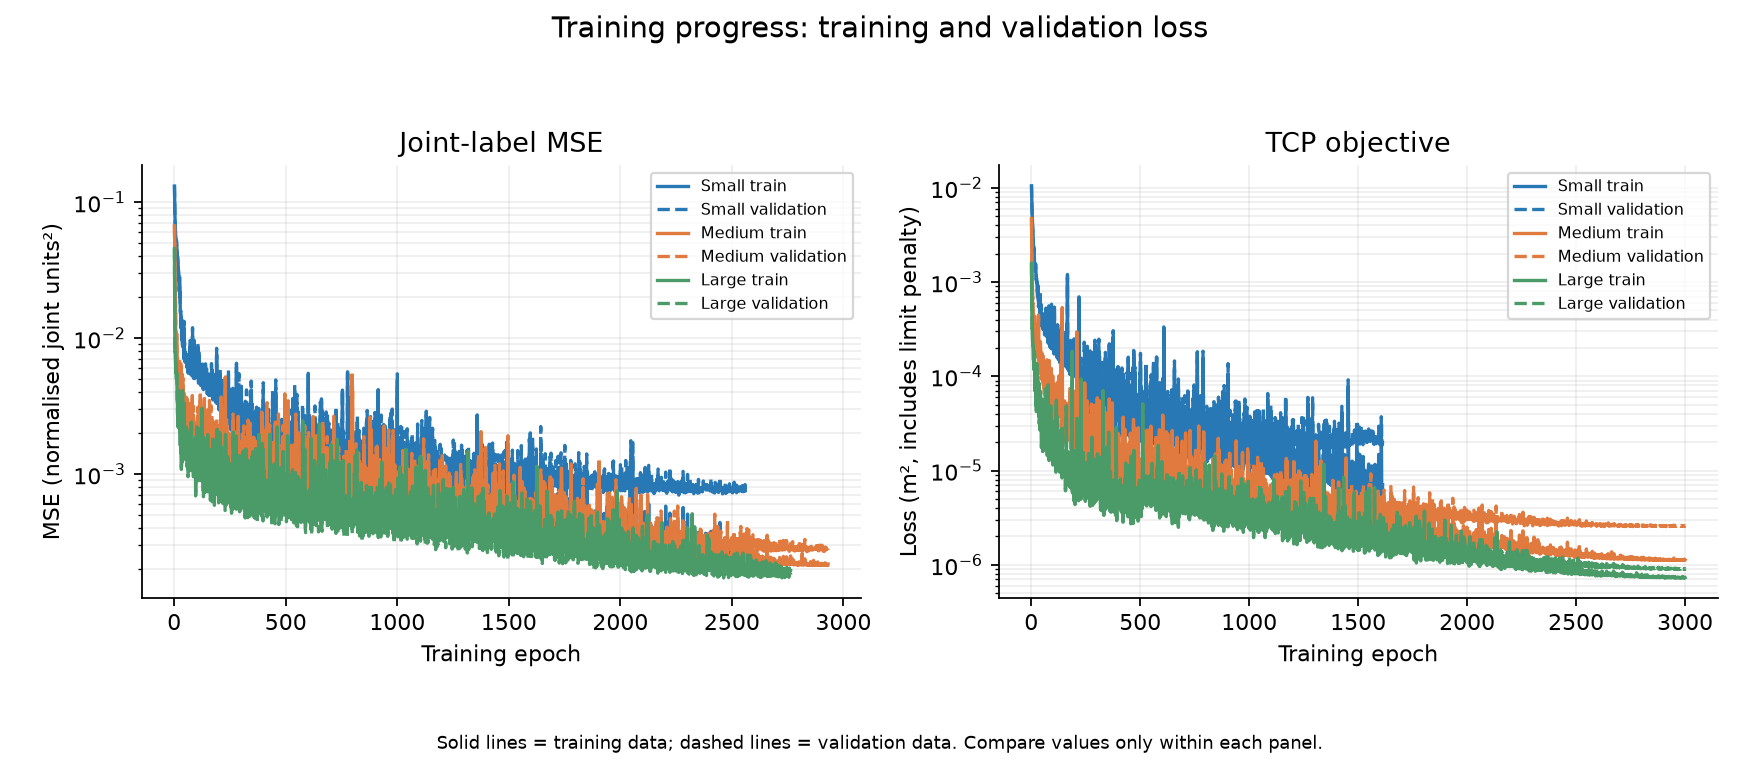
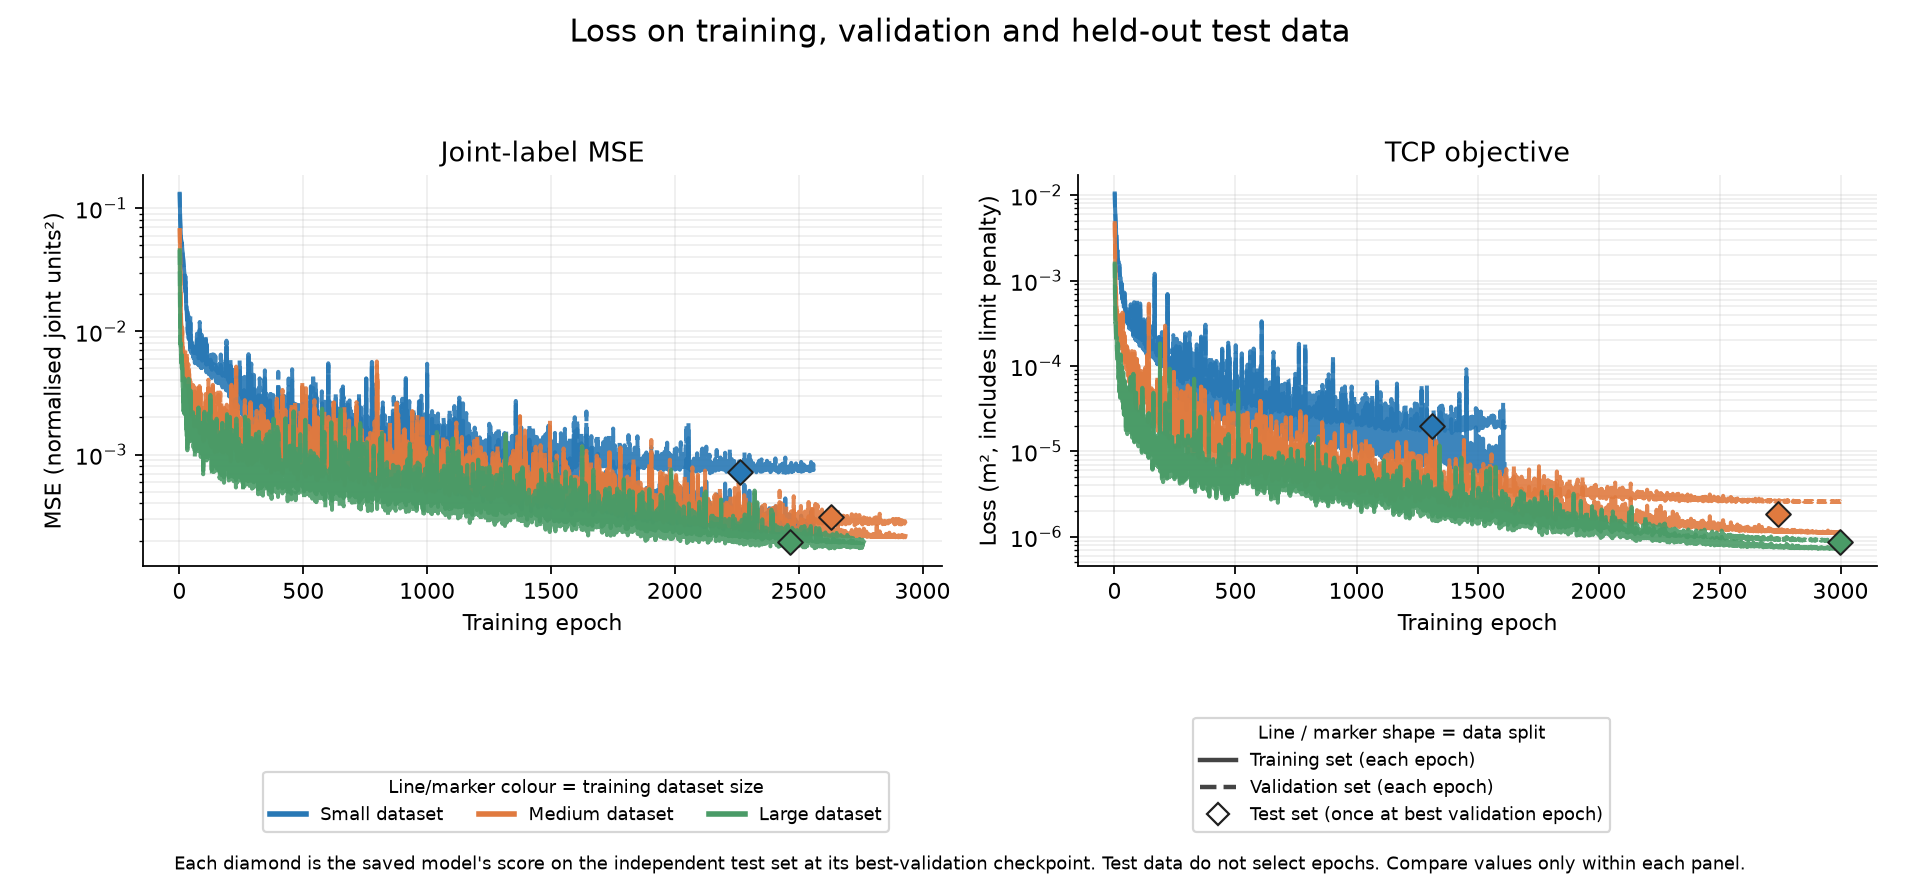
Show train validation and test loss clearly

diff --git a/scripts/plot_mlp_evaluation.py b/scripts/plot_mlp_evaluation.py
@@ -6,6 +6,7 @@ with --task4a PATH and/or --task4b PATH to redraw existing results.
 
 import argparse
 import csv
+import json
 import os
 from pathlib import Path
 import sys
@@ -26,7 +27,9 @@ import numpy as np
 
 ROOT = Path(__file__).resolve().parents[1]
 sys.path.insert(0, str(ROOT))
-from scripts.evaluation_common import SIZES, ROBOTS
+from scripts.evaluation_common import SIZES, ROBOTS, load_test, model_name, predict_model
+from scripts.train_mlp import JOINT_LIMITS
+from scripts.tcp_loss import tcp_loss_and_gradient
 
 VARIANTS = (
     ("existing_joints", "Joint-loss model", "#2878b5"),
@@ -200,10 +203,29 @@ def joint_statistics(rows, output, metric):
     save(fig, output, bottom=0.2)
 
 
+def heldout_objective(model_dir, size, variant):
+    """Score the saved best-validation checkpoint once on the independent test split."""
+    raw_inputs, labels, outputs = [], [], []
+    config = None
+    for robot in ROBOTS:
+        x, y = load_test(ROOT / "data" / "nn" / "splits" / robot / "test.csv", robot)
+        prediction, config = predict_model(model_dir, size, variant, robot, x)
+        raw_inputs.append(x)
+        labels.append(y)
+        outputs.append(prediction)
+    x = np.concatenate(raw_inputs)
+    y = np.concatenate(labels)
+    prediction = np.concatenate(outputs)
+    if variant == "tcp":
+        return tcp_loss_and_gradient(prediction, x, JOINT_LIMITS,
+                                     float(config.get("tcp_limit_weight", 0.01)))[0]
+    return float(np.mean((prediction - y) ** 2))
+
+
 def training_loss_curves(model_dir, output):
-    """Show train/validation convergence; objective families use separate axes."""
+    """Show train/validation curves and one held-out test score per checkpoint."""
     colors = {"small": "#2878b5", "medium": "#e07a3f", "large": "#4a9b67"}
-    fig, axes = plt.subplots(1, 2, figsize=(11, 4.8), squeeze=False)
+    fig, axes = plt.subplots(1, 2, figsize=(12, 5.5), squeeze=False)
     axes = axes[0]
     for ax, variant, title, train_key, val_key, ylabel in (
         (axes[0], "existing_joints", "Joint-label MSE", "train_mse", "val_mse", "MSE (normalised joint units²)"),
@@ -211,35 +233,51 @@ def training_loss_curves(model_dir, output):
     ):
         plotted = False
         for size in SIZES:
-            name = f"mlp_ned_scara_{size}_h64x64_cosine"
-            if variant == "tcp":
-                name += "_tcp"
+            name = model_name(size, variant)
             history_path = Path(model_dir) / f"{name}_history.csv"
-            if not history_path.is_file():
+            config_path = Path(model_dir) / f"{name}.json"
+            if not history_path.is_file() or not config_path.is_file():
                 continue
             with history_path.open(newline="", encoding="utf-8") as source:
                 history = list(csv.DictReader(source))
             epochs = [int(row["epoch"]) for row in history]
             train = [max(float(row[train_key]), 1e-12) for row in history]
             validation = [max(float(row[val_key]), 1e-12) for row in history]
-            ax.plot(epochs, train, color=colors[size], linewidth=1.5, label=f"{size.capitalize()} train")
-            ax.plot(epochs, validation, color=colors[size], linewidth=1.5, linestyle="--",
-                    label=f"{size.capitalize()} validation")
+            ax.plot(epochs, train, color=colors[size], linewidth=1.8, alpha=0.9)
+            ax.plot(epochs, validation, color=colors[size], linewidth=1.8, linestyle="--", alpha=0.9)
+            config = json.loads(config_path.read_text(encoding="utf-8"))
+            best_epoch = int(config["best_epoch"])
+            test_value = max(heldout_objective(model_dir, size, variant), 1e-12)
+            ax.scatter([best_epoch], [test_value], marker="D", s=62,
+                       facecolor=colors[size], edgecolor="#202020", linewidth=0.9,
+                       zorder=5, clip_on=False)
             plotted = True
         ax.set_title(title)
         ax.set_xlabel("Training epoch")
         ax.set_ylabel(ylabel)
         ax.set_yscale("log")
         ax.grid(alpha=0.2, which="both")
-        if plotted:
-            ax.legend(fontsize=7)
-        else:
+        if not plotted:
             ax.text(0.5, 0.5, "Training histories not found", transform=ax.transAxes, ha="center")
         ax.spines[["top", "right"]].set_visible(False)
-    fig.suptitle("Training progress: training and validation loss", fontsize=13)
-    fig.text(0.5, 0.025, "Solid lines = training data; dashed lines = validation data. Compare values only within each panel.",
+    fig.suptitle("Loss on training, validation and held-out test data", fontsize=14)
+    size_handles = [Line2D([0], [0], color=colors[size], linewidth=2.5,
+                           label=f"{size.capitalize()} dataset") for size in SIZES]
+    split_handles = [
+        Line2D([0], [0], color="#444444", linewidth=2, linestyle="-", label="Training set (each epoch)"),
+        Line2D([0], [0], color="#444444", linewidth=2, linestyle="--", label="Validation set (each epoch)"),
+        Line2D([0], [0], marker="D", linestyle="none", markerfacecolor="white",
+               markeredgecolor="#202020", markersize=7, label="Test set (once at best validation epoch)"),
+    ]
+    fig.legend(handles=size_handles, loc="lower center", bbox_to_anchor=(0.30, 0.045),
+               ncol=3, fontsize=8, title="Line/marker colour = training dataset size", title_fontsize=8)
+    fig.legend(handles=split_handles, loc="lower center", bbox_to_anchor=(0.73, 0.045),
+               ncol=1, fontsize=8, title="Line / marker shape = data split", title_fontsize=8)
+    fig.text(0.5, 0.012,
+             "Each diamond is the saved model's score on the independent test set at its best-validation checkpoint. "
+             "Test data do not select epochs. Compare values only within each panel.",
              ha="center", fontsize=8)
-    save(fig, output, bottom=0.1)
+    save(fig, output, bottom=0.25)
 
 
 def remove_old_extra_graphs(output, filenames):
@@ -261,7 +299,7 @@ def plot_task4a(summary, joints, predictions, output, model_dir=ROOT / "models")
         "- [Endpoint RMSE](tcp_rmse.png): gives larger misses more weight.\n"
         "- [Per-joint mean errors](joint_mean_errors.png): colour shows loss type; dot size shows dataset size; signed angular bias; SCARA lift uses squared error.\n"
         "- [Per-joint standard deviations](joint_error_std.png): colour shows loss type; dot size shows dataset size; read with mean bias and do not compare different units.\n"
-        "- [Training and validation loss curves](training_loss.png): shows learning across epochs; these are not test results.\n\n"
+        "- [Training, validation and test loss](training_loss.png): lines show each epoch; the test diamond is evaluated once at the checkpoint selected by validation.\n\n"
         "All test rows are included. FK positions are calculated, not measured in Webots.\n", encoding="utf-8")
 
 
@@ -275,7 +313,7 @@ def plot_task4b(summary, predictions, output, model_dir=ROOT / "models"):
         "Blue = joint-loss model; orange = TCP-loss model. All measured points, including any motor timeouts, count. Check summary.csv for settling status.\n\n"
         "- [Measured endpoint mean and standard deviation](comparison.png).\n"
         "- [Measured endpoint RMSE](tcp_rmse.png).\n"
-        "- [Training and validation loss curves](training_loss.png): included for learning progress; these are not test results.\n\n"
+        "- [Training, validation and test loss](training_loss.png): lines show each epoch; the test diamond is evaluated once at the checkpoint selected by validation.\n\n"
         "Task 4.B uses the first 100 test points per arm and measures the TCP in Webots.\n", encoding="utf-8")
 
 

diff --git a/reports/coursework_evaluation/graphs/README.md b/reports/coursework_evaluation/graphs/README.md
@@ -1,10 +1,10 @@
 # Evaluation graphs
 
-For test-result graphs, blue is the model trained against joint labels and orange is the model trained to reduce TCP endpoint error. Per-joint plots use dot size for the small, medium, and large datasets. Training-loss plots use a different key: line colour is dataset size, and solid/dashed lines are training/validation.
+For test-result graphs, blue is the model trained against joint labels and orange is the model trained to reduce TCP endpoint error. Per-joint plots use dot size for the small, medium, and large datasets. In the loss graph, line colour shows dataset size; solid lines show training loss each epoch, dashed lines show validation loss each epoch, and a diamond shows the independent test loss once at the checkpoint selected by validation. The test set does not select epochs. The two panels use different objectives and units, so compare curves only within the same panel.
 
 ## Training progress
 
-- [Training and validation MSE/loss](task4a/training_loss.png): conventional loss-versus-epoch curves. The joint-label MSE and TCP objective have different units, so compare curves only within each panel. These curves show training progress; the test RMSE bars below show held-out model performance.
+- [Training, validation and test MSE/loss](task4a/training_loss.png): conventional loss-versus-epoch curves with one held-out test marker for every saved model.
 
 ## Task 4.A — all independent test rows, calculated using FK
 

diff --git a/reports/coursework_evaluation/graphs/task4a/README.md b/reports/coursework_evaluation/graphs/task4a/README.md
@@ -6,6 +6,6 @@ Blue = model trained against joint labels; orange = model trained to reduce endp
 - [Endpoint RMSE](tcp_rmse.png): gives larger misses more weight.
 - [Per-joint mean errors](joint_mean_errors.png): dot size shows dataset size; signed angular bias; SCARA lift uses squared error.
 - [Per-joint standard deviations](joint_error_std.png): dot size shows dataset size; read with mean bias and do not compare different units.
-- [Training and validation loss](training_loss.png): loss over training epochs; this is training progress, not test performance.
+- [Training, validation and test loss](training_loss.png): solid/dashed lines show training/validation loss each epoch; diamonds show independent test loss once at the checkpoint selected by validation. Test data do not select the checkpoint.
 
 All test rows are included. FK positions are calculated, not measured in Webots.

diff --git a/reports/coursework_evaluation/graphs/task4b/README.md b/reports/coursework_evaluation/graphs/task4b/README.md
@@ -4,6 +4,6 @@ Blue = model trained against joint labels; orange = model trained to reduce endp
 
 - [Measured endpoint mean and standard deviation](comparison.png).
 - [Measured endpoint RMSE](tcp_rmse.png).
-- [Training and validation loss](../task4a/training_loss.png): loss over training epochs; this is training progress, not test performance.
+- [Training, validation and test loss](../task4a/training_loss.png): solid/dashed lines show training/validation loss each epoch; diamonds show independent test loss once at the checkpoint selected by validation. Test data do not select the checkpoint.
 
 These are Webots measurements on the first 100 test points per arm. Mean and standard deviation are in millimetres.
